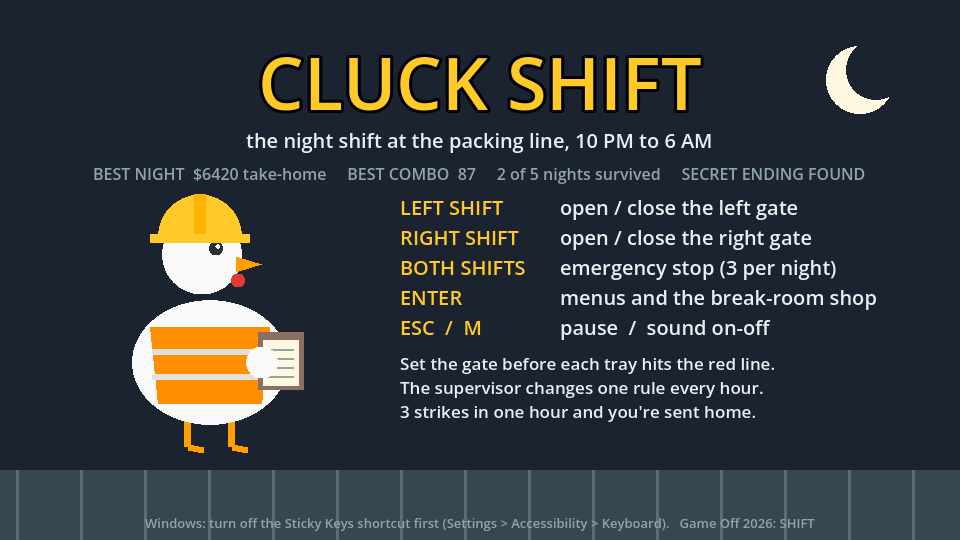
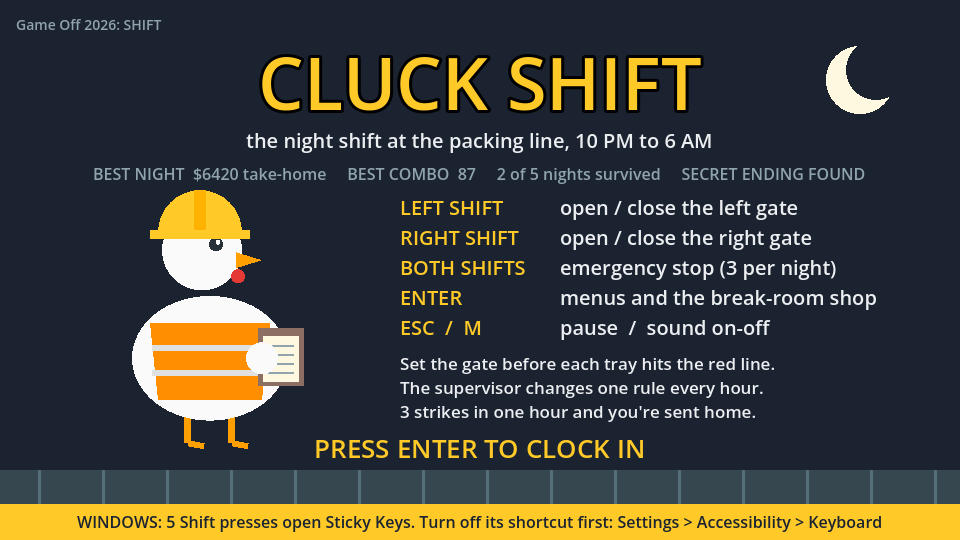
Make the Sticky Keys warning on the title readable
The warning was 13 pt grey on the belt, easy to miss, and five Shift
presses is what this game asks for. It is now dark text on an amber bar
along the bottom. The Game Off credit moves to the top left and the backup
key hint moves up so nothing overlaps. Docs also stop saying game over
returns to the title, and the release steps leave *.import out of the zip.

Closes #21.

diff --git a/docs/design.md b/docs/design.md
@@ -513,7 +513,7 @@ Field reference: [data-format.md](data-format.md).
 
 | Issue | Impact | Mitigation |
 |---|---|---|
-| Windows Sticky Keys | Pressing Shift 5 times opens the Sticky Keys prompt, in the desktop build and in browsers on Windows. | The README and the title screen tell players to turn off the shortcut (#21). A game cannot turn it off. |
+| Windows Sticky Keys | Pressing Shift 5 times opens the Sticky Keys prompt, in the desktop build and in browsers on Windows. | The README and an amber bar on the title screen tell players to turn off the shortcut (#21). A game cannot turn it off, but losing focus does pause the shift. |
 | Shift location not reported | Some setups report Shift with no location (#22). | Fixed: Z and / take over the gates, with a notice on the title and HUD. |
 | Browser focus | The web build only hears keys after it has focus. | `html/focus_canvas_on_start`; Enter on the menu needs a click or key on the page anyway. |
 | Random streaks | Uniform random kinds can produce runs. | Fine so far; a shuffled bag per hour if playtests say it feels unfair. |
@@ -584,7 +584,8 @@ Screen shake uses trauma: each event adds trauma (capped at 1), it decays at 3 p
 
 A night-shift chicken in a hard hat and hi-vis vest, holding a clipboard and bobbing gently; a moon; a moving belt
 along the bottom; the four controls; the rules in three lines; a blinking "PRESS ENTER TO CLOCK IN"; and the Sticky
-Keys hint. All drawn with shapes in `scripts/title.gd`. Game over and the win screen return here.
+Keys warning on an amber bar along the bottom. All drawn with shapes in `scripts/title.gd`. The win screen returns here;
+from being sent home, Enter starts a new night and Esc then Q reaches the title.
 
 ---
 

diff --git a/docs/testing.md b/docs/testing.md
@@ -140,7 +140,7 @@ rule: break it, see a test fail, fix it.
 
 Automated tests cannot judge feel. Before a release, play once and confirm:
 
-- [ ] The title screen shows the chicken, the controls and the Sticky Keys hint; Enter starts at 10:00 PM with the
+- [ ] The title screen shows the chicken, the controls and the Sticky Keys warning on an amber bar; Enter starts at 10:00 PM with the
       supervisor's note on a sticky note and the factory hum.
 - [ ] Left Shift and Right Shift each light their own gate box, chute and bin; the gate boxes flash orange as it swings.
 - [ ] A tray that crosses the red line goes where the lit route was, outlined green or red.

diff --git a/docs/releasing.md b/docs/releasing.md
@@ -43,7 +43,8 @@ an unsigned app ("More info > Run anyway"); the itch.io page should say so.
 
 ## 3. Upload
 
-1. Zip the **contents** of `build/web/` (so `index.html` is at the root of the zip).
+1. Zip the **contents** of `build/web/` (so `index.html` is at the root of the zip), leaving out any `*.import` files
+   the editor left there.
 2. itch.io > your game > Edit > Uploads: upload the zip and tick **This file will be played in the browser**.
 3. Kind of project: **HTML**. Viewport: **960 x 540**. Tick **Fullscreen button**. Leave
    **SharedArrayBuffer support** off (not needed).

diff --git a/CHANGELOG.md b/CHANGELOG.md
@@ -12,6 +12,7 @@ All notable changes to Cluck Shift are recorded here. The format follows
   time, not 6%, to make up for shorter hours.
 - The tally screen is gone: the hour's tally is on the break-room heading, so there is one Enter between hours. One
   Enter after being sent home starts a new night.
+- The Sticky Keys warning on the title screen is now a readable amber bar, not faint grey text (#21).
 
 ### Added
 - **Phase 5: polish around the same loop.** Esc or P pauses mid-shift: the belt, clock, PA, flicker and timers all
